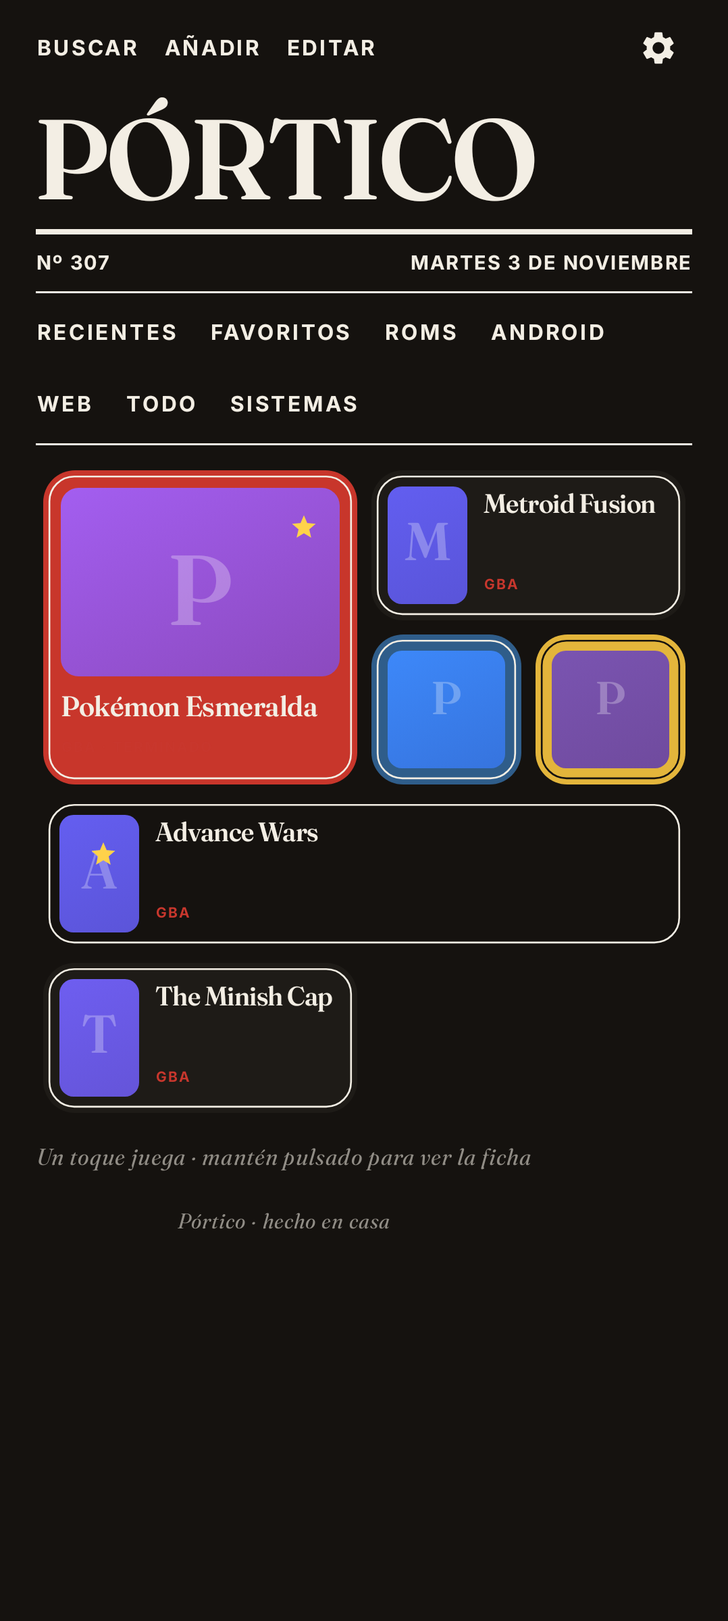
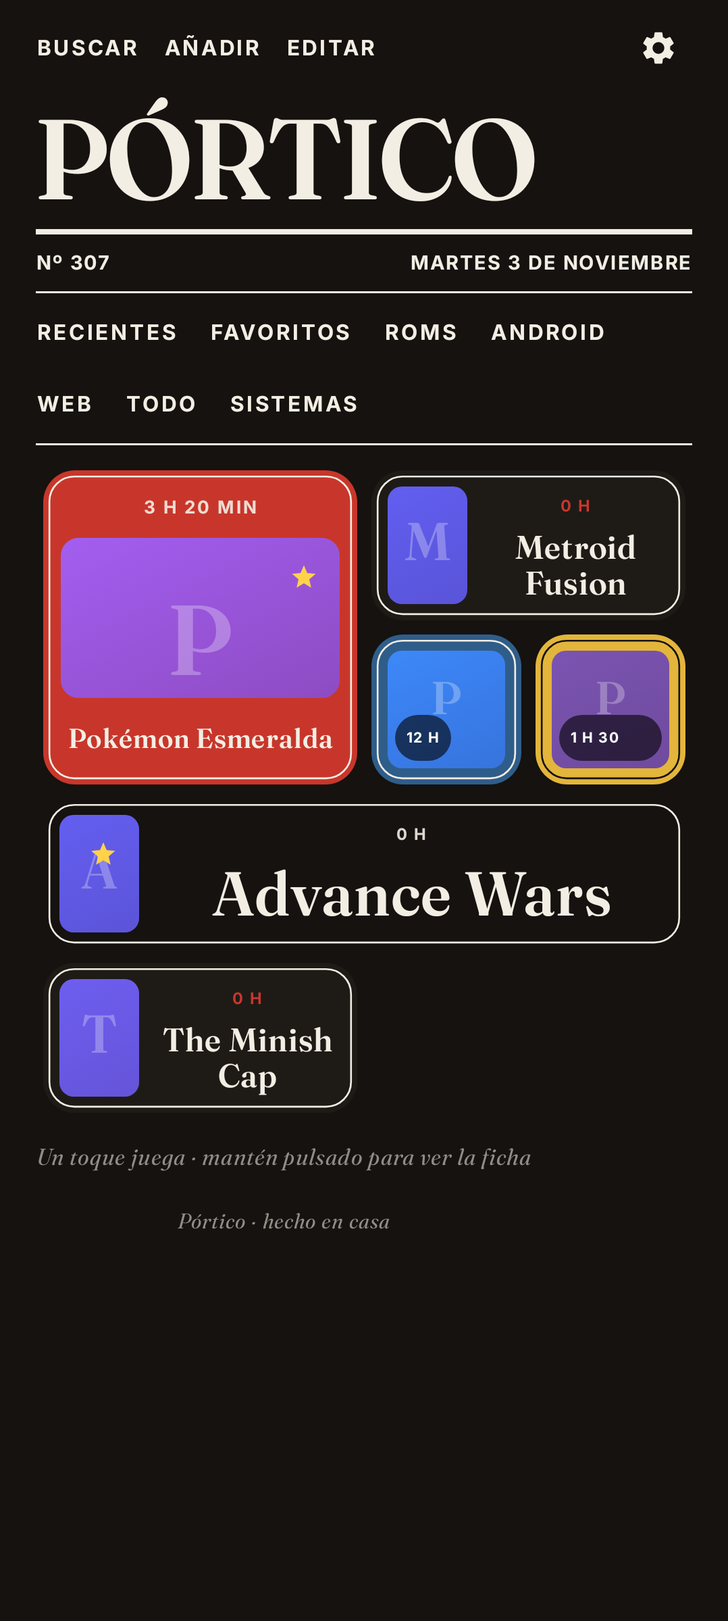
Pórtico 0.12.0: encuadre de imágenes, cualquier color con colores guardados, título centrado y ajustado, horas jugadas
Claude-Session: https://claude.ai/code/session_01Q4uywen3nuzUg5CTwJaCY5

diff --git a/app/src/main/java/com/gonzalo/portico/PantInicio.kt b/app/src/main/java/com/gonzalo/portico/PantInicio.kt
@@ -4,6 +4,10 @@ import android.content.Intent
 import androidx.activity.compose.rememberLauncherForActivityResult
 import androidx.activity.result.contract.ActivityResultContracts
 import androidx.compose.foundation.border
+import androidx.compose.foundation.gestures.detectTransformGestures
+import androidx.compose.ui.input.pointer.pointerInput
+import androidx.compose.ui.platform.testTag
+import androidx.compose.foundation.shape.RoundedCornerShape as RCS0
 import androidx.compose.foundation.clickable
 import androidx.compose.foundation.rememberScrollState
 import androidx.compose.foundation.shape.CircleShape
@@ -232,32 +236,119 @@ fun PantInicio(
 @Composable
 private fun LaunedInicial() { val c = LocalContext.current; LaunchedEffect(Unit) { Pantalla.inicial(c) } }
 
-/** Color y quitar (y la ficha, si es un juego) de un elemento del lienzo. */
-@OptIn(ExperimentalLayoutApi::class)
+/** Color (el que quieras, con los usados a mano), encuadre (imágenes), quitar y la ficha (juegos) de un elemento del lienzo. */
+@OptIn(ExperimentalLayoutApi::class, ExperimentalFoundationApi::class)
 @Composable
 private fun DialogoElemento(e: Elemento, alCerrar: () -> Unit, alFicha: (String) -> Unit) {
+    val ctx = LocalContext.current
     val actual = Pantalla.items.firstOrNull { it.id == e.id } ?: e
-    AlertDialog(
+    var otro by remember { mutableStateOf(false) }
+    var encuadre by remember { mutableStateOf(false) }
+    LaunchedEffect(Unit) { Pantalla.cargarColores(ctx) }
+    fun usa(c: Int) { Pantalla.poner(actual.copy(color = c)) }
+    if (otro) DialogoColor(if (actual.color != 0) actual.color else 0xFF4F8A5B.toInt(), alCerrar = { otro = false }) { c -> Pantalla.guardarColor(ctx, c); usa(c); otro = false }
+    if (encuadre) DialogoEncuadre(actual, alCerrar = { encuadre = false })
+    if (!otro && !encuadre) AlertDialog(
         onDismissRequest = alCerrar, containerColor = Paper, shape = esquina(4.dp),
         title = { Text(if (e.esJuego) (Biblioteca.juegos.firstOrNull { it.clave == e.ref }?.titulo ?: "Juego") else "Imagen", color = Charcoal, fontFamily = Display, fontWeight = FontWeight.Bold) },
         text = {
-            Column {
+            Column(Modifier.verticalScroll(rememberScrollState())) {
                 Etiqueta("Color de fondo")
                 FlowRow(Modifier.padding(top = 8.dp), horizontalArrangement = Arrangement.spacedBy(10.dp), verticalArrangement = Arrangement.spacedBy(10.dp)) {
-                    COLORES_ELEMENTO.forEach { c ->
+                    // «T»: el del tema · los que ya usas o guardaste · «+»: uno nuevo (cualquiera)
+                    @Composable fun bola(c: Int, borrable: Boolean) {
                         val col = if (c == 0) Crudo else Color(c)
-                        Box(Modifier.size(34.dp).clip(CircleShape).background(col).border(if (actual.color == c) 3.dp else 1.dp, if (actual.color == c) Acento else Line, CircleShape)
-                            .clickable { Pantalla.poner(actual.copy(color = c)) }, contentAlignment = Alignment.Center) {
+                        Box(Modifier.size(36.dp).clip(CircleShape).background(col).border(if (actual.color == c) 3.dp else 1.dp, if (actual.color == c) Acento else Line, CircleShape)
+                            .combinedClickable(onClick = { usa(c) }, onLongClick = { if (borrable) Pantalla.olvidarColor(ctx, c) }), contentAlignment = Alignment.Center) {
                             if (c == 0) Text("T", color = Charcoal, fontFamily = Body, fontWeight = FontWeight.Black, fontSize = 12.sp)
                         }
                     }
+                    bola(0, false)
+                    Pantalla.coloresDisponibles().forEach { bola(it, it in Pantalla.coloresGuardados) }
+                    Box(Modifier.size(36.dp).clip(CircleShape).border(1.dp, Line, CircleShape).clickable { otro = true }, contentAlignment = Alignment.Center) {
+                        Text("+", color = Acento, fontFamily = Body, fontWeight = FontWeight.Black, fontSize = 20.sp)
+                    }
                 }
-                Text("«T» es el color del tema.", color = Muted, fontFamily = Body, fontSize = 11.sp, modifier = Modifier.padding(top = 6.dp))
+                Text("«T» es el color del tema; «+» elige cualquier color. Los que uses quedan aquí para otras fichas (mantén pulsado uno para olvidarlo).", color = Muted, fontFamily = Body, fontSize = 11.sp, modifier = Modifier.padding(top = 6.dp))
+                if (e.esImagen) { Spacer(Modifier.height(8.dp)); MagLink("Encuadrar la imagen", "Arrastra y haz zoom para elegir qué se ve") { encuadre = true } }
                 if (e.esJuego) { Spacer(Modifier.height(8.dp)); MagLink("Ver la ficha") { alCerrar(); alFicha(e.ref) } }
             }
         },
         confirmButton = { TextButton({ alCerrar() }) { Text("LISTO", color = Acento, fontFamily = Body, fontWeight = FontWeight.Black, letterSpacing = 1.2.sp) } },
         dismissButton = { TextButton({ Pantalla.quitar(e.id); alCerrar() }) { Text("QUITAR", color = Charcoal, fontFamily = Body, fontWeight = FontWeight.Black, letterSpacing = 1.2.sp) } }
+    )
+}
+
+/** «#RRGGBB» (o «RRGGBB») → color opaco; null si no es un código válido. */
+fun hexAColor(t: String): Int? = t.trim().removePrefix("#").takeIf { it.length == 6 }?.toIntOrNull(16)?.let { 0xFF000000.toInt() or it }
+fun colorAHex(c: Int) = "#%06X".format(c and 0xFFFFFF)
+
+/** Elegir un color cualquiera: matiz, intensidad y brillo (o el código #RRGGBB). */
+@Composable
+fun DialogoColor(inicial: Int, alCerrar: () -> Unit, alElegir: (Int) -> Unit) {
+    val hsv = remember(inicial) { FloatArray(3).also { android.graphics.Color.colorToHSV(inicial, it) } }
+    var h by remember(inicial) { mutableStateOf(hsv[0]) }
+    var sat by remember(inicial) { mutableStateOf(hsv[1]) }
+    var v by remember(inicial) { mutableStateOf(hsv[2]) }
+    val color = android.graphics.Color.HSVToColor(floatArrayOf(h, sat, v))
+    var hex by remember(inicial) { mutableStateOf(colorAHex(inicial)) }
+    fun muestra(nh: Float, ns: Float, nv: Float) { hex = colorAHex(android.graphics.Color.HSVToColor(floatArrayOf(nh, ns, nv))) }
+    val colores = androidx.compose.material3.SliderDefaults.colors(thumbColor = Acento, activeTrackColor = Acento, inactiveTrackColor = Sand)
+    AlertDialog(
+        onDismissRequest = alCerrar, containerColor = Paper, shape = esquina(4.dp),
+        title = { Text("Color", color = Charcoal, fontFamily = Display, fontWeight = FontWeight.Bold) },
+        text = {
+            Column {
+                Box(Modifier.fillMaxWidth().height(56.dp).clip(RoundedCornerShape(12.dp)).background(Color(color)).border(1.dp, Line, RoundedCornerShape(12.dp)))
+                Etiqueta("Matiz", Modifier.padding(top = 10.dp))
+                androidx.compose.material3.Slider(h, { h = it; muestra(it, sat, v) }, valueRange = 0f..360f, colors = colores)
+                Etiqueta("Intensidad")
+                androidx.compose.material3.Slider(sat, { sat = it; muestra(h, it, v) }, valueRange = 0f..1f, colors = colores)
+                Etiqueta("Brillo")
+                androidx.compose.material3.Slider(v, { v = it; muestra(h, sat, it) }, valueRange = 0f..1f, colors = colores)
+                Campo(hex, "#RRGGBB", { t ->
+                    hex = t
+                    hexAColor(t)?.let { rgb -> val f = FloatArray(3); android.graphics.Color.colorToHSV(rgb, f); h = f[0]; sat = f[1]; v = f[2] }
+                })
+            }
+        },
+        confirmButton = { TextButton({ alElegir(color) }) { Text("USAR", color = Acento, fontFamily = Body, fontWeight = FontWeight.Black, letterSpacing = 1.2.sp) } },
+        dismissButton = { TextButton(alCerrar) { Text("CANCELAR", color = Charcoal, fontFamily = Body, fontWeight = FontWeight.Black, letterSpacing = 1.2.sp) } }
+    )
+}
+
+/** Encuadrar una imagen en su hueco: con la forma exacta del hueco, arrastra para mover y pellizca (o usa la barra) para el zoom. */
+@Composable
+fun DialogoEncuadre(e: Elemento, alCerrar: () -> Unit) {
+    val ctx = LocalContext.current
+    var zoom by remember { mutableStateOf(e.zoom) }
+    var ox by remember { mutableStateOf(e.ox) }
+    var oy by remember { mutableStateOf(e.oy) }
+    val f = java.io.File(Pantalla.dirImagenes(ctx), e.ref)
+    val colores = androidx.compose.material3.SliderDefaults.colors(thumbColor = Acento, activeTrackColor = Acento, inactiveTrackColor = Sand)
+    AlertDialog(
+        onDismissRequest = alCerrar, containerColor = Paper, shape = esquina(4.dp),
+        title = { Text("Encuadrar", color = Charcoal, fontFamily = Display, fontWeight = FontWeight.Bold) },
+        text = {
+            Column(horizontalAlignment = Alignment.CenterHorizontally) {
+                val forma = e.w.toFloat() / e.h.toFloat()
+                Box(Modifier.testTag("encuadre").fillMaxWidth(if (forma >= 1f) 1f else 0.6f).aspectRatio(forma).clip(RoundedCornerShape(12.dp)).background(Sand).border(1.dp, Line, RoundedCornerShape(12.dp))
+                    .pointerInput(Unit) {
+                        detectTransformGestures { _, pan, z, _ ->
+                            zoom = (zoom * z).coerceIn(1f, 8f)
+                            ox = (ox - 2f * pan.x / size.width / zoom).coerceIn(-1f, 1f)
+                            oy = (oy - 2f * pan.y / size.height / zoom).coerceIn(-1f, 1f)
+                        }
+                    }) {
+                    if (f.exists()) ImagenEncuadrada(f, zoom, ox, oy, Modifier.fillMaxSize())
+                }
+                Etiqueta("Zoom", Modifier.padding(top = 10.dp).align(Alignment.Start))
+                androidx.compose.material3.Slider(zoom, { zoom = it }, valueRange = 1f..8f, colors = colores)
+                MagLink("Restablecer") { zoom = 1f; ox = 0f; oy = 0f }
+            }
+        },
+        confirmButton = { TextButton({ Pantalla.items.firstOrNull { it.id == e.id }?.let { Pantalla.poner(it.copy(zoom = zoom, ox = ox, oy = oy)) }; alCerrar() }) { Text("GUARDAR", color = Acento, fontFamily = Body, fontWeight = FontWeight.Black, letterSpacing = 1.2.sp) } },
+        dismissButton = { TextButton(alCerrar) { Text("CANCELAR", color = Charcoal, fontFamily = Body, fontWeight = FontWeight.Black, letterSpacing = 1.2.sp) } }
     )
 }
 

diff --git a/app/src/main/java/com/gonzalo/portico/Lienzo.kt b/app/src/main/java/com/gonzalo/portico/Lienzo.kt
@@ -20,6 +20,14 @@ import androidx.compose.foundation.shape.RoundedCornerShape
 import androidx.compose.material3.Text
 import androidx.compose.runtime.*
 import androidx.compose.ui.Alignment
+import androidx.compose.ui.unit.Constraints
+import androidx.compose.ui.text.style.TextAlign
+import androidx.compose.ui.text.rememberTextMeasurer
+import androidx.compose.ui.text.TextStyle
+import androidx.compose.ui.text.TextMeasurer
+import androidx.compose.ui.graphics.graphicsLayer
+import androidx.compose.ui.graphics.TransformOrigin
+import androidx.compose.ui.BiasAlignment
 import androidx.compose.ui.Modifier
 import androidx.compose.ui.draw.clip
 import androidx.compose.ui.draw.drawBehind
@@ -179,32 +187,80 @@ private fun ElementoLienzo(e0: Elemento, j: Juego?, px: Float, editando: Boolean
     }
 }
 
+/** El mayor tamaño de letra (entre [min] y [max], en sp) con el que [texto] cabe entero en [ancho]×[alto] px, sin partir ninguna palabra. */
+fun tamanoQueCabe(medidor: TextMeasurer, texto: String, estilo: TextStyle, ancho: Int, alto: Int, max: Float, min: Float): Float {
+    if (ancho <= 0 || alto <= 0) return min
+    val palabras = texto.split(' ', '\n').filter { it.isNotEmpty() }
+    fun cabe(sp: Float): Boolean {
+        val st = estilo.copy(fontSize = sp.sp, lineHeight = (sp * 1.08f).sp)
+        if (palabras.any { medidor.measure(it, st.copy(textAlign = TextAlign.Center), softWrap = false).size.width > ancho }) return false
+        val r = medidor.measure(texto, st.copy(textAlign = TextAlign.Center), constraints = Constraints(maxWidth = ancho))
+        return r.size.height <= alto && !r.didOverflowHeight && !r.didOverflowWidth
+    }
+    var lo = min; var hi = max
+    if (cabe(hi)) return hi
+    if (!cabe(lo)) return lo
+    repeat(14) { val m = (lo + hi) / 2f; if (cabe(m)) lo = m else hi = m }
+    return lo
+}
+
+/** Un título centrado, tan grande como quepa en su hueco sin cortarse nunca (salvo que ni a la letra más pequeña quepa). */
+@Composable
+fun TituloAjustado(texto: String, color: Color, modifier: Modifier = Modifier, max: Float = 44f, min: Float = 6f, peso: FontWeight = FontWeight.SemiBold) {
+    val medidor = rememberTextMeasurer()
+    BoxWithConstraints(modifier, contentAlignment = Alignment.Center) {
+        val w = constraints.maxWidth; val h = constraints.maxHeight
+        val base = remember(peso) { TextStyle(fontFamily = Display, fontWeight = peso) }
+        val ideal = remember(texto, w, h, peso, Skin.hashCode(), Display) { tamanoQueCabe(medidor, texto, base, w, h, max, min) * 0.97f }
+        // Por si al pintar sale más grande de lo medido (la letra puede terminar de cargarse después): si se desborda, se achica hasta que quepa
+        var factor by remember(texto, w, h, peso) { mutableStateOf(1f) }
+        val sp = (ideal * factor).coerceAtLeast(min)
+        Text(texto, color = color, fontFamily = Display, fontWeight = peso, fontSize = sp.sp, lineHeight = (sp * 1.08f).sp, textAlign = TextAlign.Center, softWrap = true,
+            onTextLayout = { if ((it.didOverflowHeight || it.didOverflowWidth || it.size.height > h) && sp > min + 0.1f) factor *= 0.93f })
+    }
+}
+
+/** Una imagen encuadrada en su hueco: [zoom] 1 = ajustada, y [ox]/[oy] de -1 a 1 mueven qué parte se ve. */
+@Composable
+fun ImagenEncuadrada(f: File, zoom: Float, ox: Float, oy: Float, modifier: Modifier = Modifier) {
+    AsyncImage(f, null,
+        modifier.graphicsLayer { scaleX = zoom; scaleY = zoom; transformOrigin = TransformOrigin(0.5f + ox / 2f, 0.5f + oy / 2f) },
+        contentScale = ContentScale.Crop, alignment = BiasAlignment(ox, oy))
+}
+
+private fun horasDe(j: Juego) = if (j.msJugados >= 60_000) tiempoDe(j.msJugados) else "0 h"
+
 @Composable
 private fun Contenido(e: Elemento, j: Juego?, tinta: Color) {
     val ctx = LocalContext.current
     if (e.esImagen) {
         val f = File(Pantalla.dirImagenes(ctx), e.ref)
         Box(Modifier.fillMaxSize().padding(7.dp).clip(RoundedCornerShape(12.dp)), contentAlignment = Alignment.Center) {
-            if (f.exists()) AsyncImage(f, null, Modifier.fillMaxSize(), contentScale = ContentScale.Crop)
+            if (f.exists()) ImagenEncuadrada(f, e.zoom, e.ox, e.oy, Modifier.fillMaxSize())
             else Text("imagen sin bajar", color = tinta.copy(alpha = 0.6f), fontSize = 11.sp)
         }
         return
     }
     if (j == null) return
-    val meta = metaCorta(j)
+    val realce = if (e.color == 0) Acento else tinta.copy(alpha = 0.9f)
+    val horas = horasDe(j).uppercase()
     when {
-        e.w == 1 && e.h == 1 -> Box(Modifier.fillMaxSize().padding(9.dp).clip(RoundedCornerShape(8.dp))) { ImagenJuego(j, Modifier.matchParentSize(), tamLetra = 26) }
+        e.w == 1 && e.h == 1 -> Box(Modifier.fillMaxSize().padding(9.dp).clip(RoundedCornerShape(8.dp))) {
+            ImagenJuego(j, Modifier.matchParentSize(), tamLetra = 26)
+            Text(horas, color = Color.White, fontFamily = Body, fontSize = 8.sp, fontWeight = FontWeight.Black, letterSpacing = 0.6.sp, maxLines = 1,
+                modifier = Modifier.align(Alignment.BottomStart).padding(4.dp).clip(RoundedCornerShape(50)).background(Color.Black.copy(alpha = 0.6f)).padding(horizontal = 6.dp, vertical = 2.dp))
+        }
         e.h == 1 -> Row(Modifier.fillMaxSize().padding(9.dp), verticalAlignment = Alignment.CenterVertically) {
             Box(Modifier.fillMaxHeight().aspectRatio(0.68f).clip(RoundedCornerShape(8.dp))) { ImagenJuego(j, Modifier.matchParentSize(), tamLetra = 30) }
-            Column(Modifier.weight(1f).fillMaxHeight().padding(start = 9.dp), verticalArrangement = Arrangement.SpaceBetween) {
-                FitTitle(j.titulo, 15.sp, 16.sp, color = tinta, fontWeight = FontWeight.SemiBold, maxLines = 3, minSize = 10f, letterSpacing = (-0.2).sp)
-                Text(meta.uppercase(), color = if (tinta == Charcoal) Acento else tinta.copy(alpha = 0.8f), fontFamily = Body, fontSize = 8.sp, fontWeight = FontWeight.Black, letterSpacing = 0.8.sp, maxLines = 1)
+            Column(Modifier.weight(1f).fillMaxHeight().padding(start = 8.dp), horizontalAlignment = Alignment.CenterHorizontally) {
+                Text(horas, color = realce, fontFamily = Body, fontSize = 9.sp, fontWeight = FontWeight.Black, letterSpacing = 1.sp, maxLines = 1)
+                TituloAjustado(j.titulo, tinta, Modifier.weight(1f).fillMaxWidth())
             }
         }
-        else -> Column(Modifier.fillMaxSize().padding(10.dp)) {
-            Box(Modifier.weight(1f).fillMaxWidth().clip(RoundedCornerShape(10.dp))) { ImagenJuego(j, Modifier.matchParentSize(), tamLetra = 56) }
-            FitTitle(j.titulo, 16.sp, 17.sp, color = tinta, fontWeight = FontWeight.SemiBold, maxLines = 2, minSize = 10f, letterSpacing = (-0.2).sp, modifier = Modifier.padding(top = 7.dp))
-            Text(meta.uppercase(), color = if (tinta == Charcoal) Acento else tinta.copy(alpha = 0.8f), fontFamily = Body, fontSize = 8.sp, fontWeight = FontWeight.Black, letterSpacing = 0.8.sp, maxLines = 1, modifier = Modifier.padding(top = 2.dp))
+        else -> Column(Modifier.fillMaxSize().padding(10.dp), horizontalAlignment = Alignment.CenterHorizontally) {
+            Text(horas, color = realce, fontFamily = Body, fontSize = 10.sp, fontWeight = FontWeight.Black, letterSpacing = 1.2.sp, maxLines = 1, modifier = Modifier.padding(bottom = 6.dp))
+            Box(Modifier.weight(3f).fillMaxWidth().clip(RoundedCornerShape(10.dp))) { ImagenJuego(j, Modifier.matchParentSize(), tamLetra = 56) }
+            TituloAjustado(j.titulo, tinta, Modifier.weight(1.3f).fillMaxWidth().padding(top = 6.dp))
         }
     }
 }

diff --git a/app/src/test/java/com/gonzalo/portico/PantallaTest.kt b/app/src/test/java/com/gonzalo/portico/PantallaTest.kt
@@ -14,9 +14,11 @@ import org.junit.Test
 import org.junit.runner.RunWith
 import org.robolectric.RobolectricTestRunner
 import org.robolectric.annotation.Config
+import org.robolectric.annotation.GraphicsMode
 
 /** La pantalla de inicio como lienzo: colocar, mezclar entre móviles y las pantallas de verdad. */
 @RunWith(RobolectricTestRunner::class)
+@GraphicsMode(GraphicsMode.Mode.NATIVE)
 @Config(sdk = [34], qualifiers = "w411dp-h891dp-xxhdpi")
 class PantallaTest {
     @get:Rule val rule = createComposeRule()
@@ -164,5 +166,68 @@ class PantallaTest {
         }
         rule.waitForIdle()
         assertEquals(2 to 2, Pantalla.items.first { it.id == "e1" }.let { it.w to it.h })
+    }
+
+    @Test fun elTituloCabeSiempreEnteroYCentrado() {
+        val titulos = listOf("Zelda", "Pokémon Esmeralda", "The Legend of Zelda: The Minish Cap", "Supercalifragilisticoespialidoso", "Hollow Knight (SNES hack) edición coleccionista")
+        val tamanos = listOf(250 to 60, 250 to 120, 300 to 200, 150 to 80)
+        val fallos = ArrayList<String>()
+        rule.setContent {
+            val m = androidx.compose.ui.text.rememberTextMeasurer()
+            val base = androidx.compose.ui.text.TextStyle(fontWeight = androidx.compose.ui.text.font.FontWeight.SemiBold)
+            titulos.forEach { t -> tamanos.forEach { (w, h) ->
+                val sp = tamanoQueCabe(m, t, base, w, h, 44f, 6f)
+                val st = base.copy(fontSize = androidx.compose.ui.unit.TextUnit(sp, androidx.compose.ui.unit.TextUnitType.Sp), lineHeight = androidx.compose.ui.unit.TextUnit(sp * 1.08f, androidx.compose.ui.unit.TextUnitType.Sp), textAlign = androidx.compose.ui.text.style.TextAlign.Center)
+                val r = m.measure(t, st, constraints = androidx.compose.ui.unit.Constraints(maxWidth = w))
+                val palabraAncha = t.split(' ').maxOf { m.measure(it, st, softWrap = false).size.width }
+                if (sp > 6.01f && (r.size.height > h || palabraAncha > w)) fallos += "$t en ${w}x$h a $sp: alto ${r.size.height}, palabra $palabraAncha"
+                if (sp < 6f || sp > 44f) fallos += "$t fuera de rango $sp"
+            } }
+        }
+        rule.waitForIdle()
+        assertTrue(fallos.joinToString("\n"), fallos.isEmpty())
+    }
+
+    @Test fun elTituloCortoSeHaceGrandeYElLargoPequeno() {
+        var corto = 0f; var largo = 0f
+        rule.setContent {
+            val m = androidx.compose.ui.text.rememberTextMeasurer(); val base = androidx.compose.ui.text.TextStyle()
+            corto = tamanoQueCabe(m, "Zelda", base, 300, 100, 60f, 6f); largo = tamanoQueCabe(m, "The Legend of Zelda: The Minish Cap Collector Edition", base, 300, 100, 60f, 6f)
+        }
+        rule.waitForIdle(); assertTrue("$corto $largo", corto > largo * 1.5f)
+    }
+
+    @Test fun elCodigoDeColor() {
+        assertEquals(0xFF4F8A5B.toInt(), hexAColor("#4F8A5B")); assertEquals(0xFF4F8A5B.toInt(), hexAColor(" 4f8a5b "))
+        assertNull(hexAColor("#12345")); assertNull(hexAColor("#GGGGGG")); assertNull(hexAColor(""))
+        assertEquals("#4F8A5B", colorAHex(0xFF4F8A5B.toInt()))
+    }
+
+    @Test fun losColoresUsadosQuedanParaOtrasFichas() {
+        Pantalla.coloresGuardados.clear()
+        Pantalla.items.addAll(listOf(e("a", 0, 0, color = 0xFF112233.toInt()), e("b", 1, 0, color = 0xFF112233.toInt()), e("c", 2, 0, color = 0xFF445566.toInt()), e("d", 3, 0)))
+        Pantalla.guardarColor(ctx, 0xFFAABBCC.toInt()); Pantalla.guardarColor(ctx, 0xFF112233.toInt())
+        val d = Pantalla.coloresDisponibles()
+        assertEquals("guardados primero, luego los de las fichas, sin repetir ni el del tema", listOf(0xFF112233.toInt(), 0xFFAABBCC.toInt(), 0xFF445566.toInt()), d)
+        Pantalla.olvidarColor(ctx, 0xFFAABBCC.toInt()); assertFalse(Pantalla.coloresDisponibles().contains(0xFFAABBCC.toInt()))
+        Pantalla.coloresGuardados.clear(); Pantalla.cargarColores(ctx)
+        assertTrue("se recuerdan al reabrir", Pantalla.coloresGuardados.contains(0xFF112233.toInt()))
+    }
+
+    @Test fun elEncuadreSeGuardaYViaja() {
+        Catalogo.cargar(ctx); Skin.cargar(ctx)
+        Pantalla.items.add(Elemento("i1", Elemento.IMAGEN, "i1.jpg", 0, 0, 2, 2, 0, 1))
+        rule.setContent { PorticoTheme { Surface(Modifier.fillMaxSize(), color = Paper) { PantInicio({}, {}, {}, {}, {}) } } }
+        rule.onNodeWithText("EDITAR").performClick()
+        rule.onNodeWithTag("el-i1").performTouchInput { click(center) }
+        rule.onNodeWithText("Encuadrar la imagen", substring = true, ignoreCase = true).performClick()
+        rule.onNodeWithTag("encuadre").performTouchInput { pinch(androidx.compose.ui.geometry.Offset(center.x - 20, center.y), androidx.compose.ui.geometry.Offset(center.x - 60, center.y), androidx.compose.ui.geometry.Offset(center.x + 20, center.y), androidx.compose.ui.geometry.Offset(center.x + 60, center.y)) }
+        rule.onNodeWithText("GUARDAR").performClick()
+        rule.waitForIdle()
+        val i = Pantalla.items.first { it.id == "i1" }
+        assertTrue("zoom ${i.zoom}", i.zoom > 1.2f)
+        val j = elementoDeJson(elementoAJson(i.copy(ox = 0.5f, oy = -0.25f)))!!
+        assertEquals(0.5f, j.ox, 0.001f); assertEquals(-0.25f, j.oy, 0.001f); assertEquals(i.zoom, j.zoom, 0.001f)
+        assertEquals("sin encuadre no añade campos", 1f, elementoDeJson(elementoAJson(e("x", 0, 0)))!!.zoom, 0.0f)
     }
 }

diff --git a/app/src/main/java/com/gonzalo/portico/Pantalla.kt b/app/src/main/java/com/gonzalo/portico/Pantalla.kt
@@ -18,7 +18,9 @@ data class Elemento(
     /** ARGB; 0 = el del tema. */
     val color: Int = 0,
     /** Última vez que se cambió (milisegundos). */
-    val mod: Long = 0L
+    val mod: Long = 0L,
+    /** Encuadre de una imagen: zoom (1 = ajustada al hueco) y hacia dónde se desplaza, de -1 (izquierda/arriba) a 1 (derecha/abajo). */
+    val zoom: Float = 1f, val ox: Float = 0f, val oy: Float = 0f
 ) {
     val esJuego get() = tipo == JUEGO
     val esImagen get() = tipo == IMAGEN
@@ -28,10 +30,12 @@ data class Elemento(
 }
 
 fun elementoAJson(e: Elemento) = JSONObject().put("id", e.id).put("t", e.tipo).put("r", e.ref).put("x", e.x).put("y", e.y).put("w", e.w).put("h", e.h).put("c", e.color).put("m", e.mod)
+    .apply { if (e.zoom != 1f) put("z", e.zoom.toDouble()); if (e.ox != 0f) put("ox", e.ox.toDouble()); if (e.oy != 0f) put("oy", e.oy.toDouble()) }
 fun elementoDeJson(o: JSONObject): Elemento? {
     val id = o.optString("id").ifBlank { return null }
     val t = o.optString("t").takeIf { it == Elemento.JUEGO || it == Elemento.IMAGEN } ?: return null
-    return Elemento(id, t, o.optString("r"), o.optInt("x"), o.optInt("y"), o.optInt("w", 1).coerceIn(1, Pantalla.COLUMNAS), o.optInt("h", 1).coerceIn(1, 12), o.optInt("c"), o.optLong("m"))
+    return Elemento(id, t, o.optString("r"), o.optInt("x"), o.optInt("y"), o.optInt("w", 1).coerceIn(1, Pantalla.COLUMNAS), o.optInt("h", 1).coerceIn(1, 12), o.optInt("c"), o.optLong("m"),
+        o.optDouble("z", 1.0).toFloat().coerceIn(1f, 8f), o.optDouble("ox", 0.0).toFloat().coerceIn(-1f, 1f), o.optDouble("oy", 0.0).toFloat().coerceIn(-1f, 1f))
 }
 
 object Pantalla {
@@ -127,6 +131,23 @@ object Pantalla {
     fun aplicarMezcla(nuevos: List<Elemento>, borr: Map<String, Long>) {
         items.clear(); items.addAll(nuevos); borrados.clear(); borrados.putAll(borr); guardar()
     }
+
+    /** Los colores que has guardado (de más nuevo a más viejo); se suman a los que ya usan tus elementos, que viajan con la cuenta. */
+    val coloresGuardados = mutableStateListOf<Int>()
+    fun cargarColores(c: Context) {
+        if (coloresGuardados.isNotEmpty()) return
+        runCatching { JSONArray(c.getSharedPreferences("portico_pantalla", Context.MODE_PRIVATE).getString("colores", "[]")!!).let { a -> (0 until a.length()).forEach { coloresGuardados.add(a.getInt(it)) } } }
+    }
+    fun guardarColor(c: Context, color: Int) {
+        if (color == 0) return
+        coloresGuardados.remove(color); coloresGuardados.add(0, color)
+        while (coloresGuardados.size > 30) coloresGuardados.removeAt(coloresGuardados.size - 1)
+        persisteColores(c)
+    }
+    fun olvidarColor(c: Context, color: Int) { coloresGuardados.remove(color); persisteColores(c) }
+    private fun persisteColores(c: Context) { c.getSharedPreferences("portico_pantalla", Context.MODE_PRIVATE).edit().putString("colores", JSONArray(coloresGuardados.toList()).toString()).apply() }
+    /** Todos los colores a mano: los guardados y los que usan los elementos (sin repetir). */
+    fun coloresDisponibles(): List<Int> = (coloresGuardados.toList() + items.map { it.color }).filter { it != 0 }.distinct()
 
     /** Dónde se guardan las imágenes de la pantalla. */
     fun dirImagenes(c: Context) = File(c.filesDir, "pantalla").apply { mkdirs() }

diff --git a/app/src/main/java/com/gonzalo/portico/PantEstilo.kt b/app/src/main/java/com/gonzalo/portico/PantEstilo.kt
@@ -36,7 +36,7 @@ import androidx.compose.material3.TextButton
 import kotlinx.coroutines.Dispatchers
 import kotlinx.coroutines.withContext
 
-const val VERSION = "0.11.1"
+const val VERSION = "0.12.0"
 
 private fun aliasInicio(c: Context) = ComponentName(c, "com.gonzalo.portico.InicioAlias")
 private fun esInicio(c: Context) = c.packageManager.getComponentEnabledSetting(aliasInicio(c)) == PackageManager.COMPONENT_ENABLED_STATE_ENABLED

diff --git a/README.md b/README.md
@@ -17,7 +17,8 @@ La interfaz es la «Revista» de Atrio. Generadas en el ordenador con datos de e
 ## La pantalla de inicio es tu lienzo
 
 Como la portada de Atrio: cabecera de revista, el **menú de secciones** (Recientes, Favoritos, ROMs, Android, Web, Todo, Sistemas) y, debajo, **tu lienzo**: una cuadrícula de 4 columnas de casillas invisibles donde colocas lo que quieras con el tamaño que quieras.
-- **Editar**: arrastra un elemento para moverlo (se encaja en las casillas; si pisa a otros, los empuja hacia abajo, como en la pantalla de inicio del móvil), arrastra el **círculo** de su esquina para hacerlo grande o pequeño, toca para elegir su **color de fondo** (solo el de ese elemento; «T» = el del tema) o quitarlo. «+ Añadir»: un juego, una imagen de la galería o una **imagen de internet** (la misma búsqueda de las portadas: Google Imágenes, Pinterest, ArtStation, Newgrounds).
+- **Editar**: arrastra un elemento para moverlo (se encaja en las casillas; si pisa a otros, los empuja hacia abajo, como en la pantalla de inicio del móvil), arrastra el **círculo** de su esquina para hacerlo grande o pequeño, toca para elegir su **color de fondo** (solo el de ese elemento): cualquier color (matiz, intensidad y brillo, o el código #RRGGBB); los que uses quedan guardados y a mano para otras fichas («T» = el del tema), o **encuadrar** una imagen (arrastrar y zoom, con la forma exacta de su hueco) o quitarlo. «+ Añadir»: un juego, una imagen de la galería o una **imagen de internet** (la misma búsqueda de las portadas: Google Imágenes, Pinterest, ArtStation, Newgrounds).
+- El título va centrado y **tan grande como quepa sin cortarse** (se mide y, si al pintar sobra, se achica); encima, las **horas jugadas**.
 - Según su tamaño, un juego es solo la portada (1×1), la baldosa de portada + nombre (ancho, 1 alto) o una portada grande con el nombre debajo (2 o más de alto).
 - **Sincronizado entre tus móviles** (por elemento, gana el cambio más reciente; lo quitado se quita en todos). Los juegos se enlazan por su clave, las imágenes viajan por kDrive. La cuadrícula tiene 4 columnas en todos los móviles para que la disposición sea la misma.
 - La primera vez (sin cuenta vinculada) se rellena con tus últimos juegos. Capturas: [lienzo](docs/capturas/20_lienzo.png) · [editando](docs/capturas/21_lienzo_editando.png).
